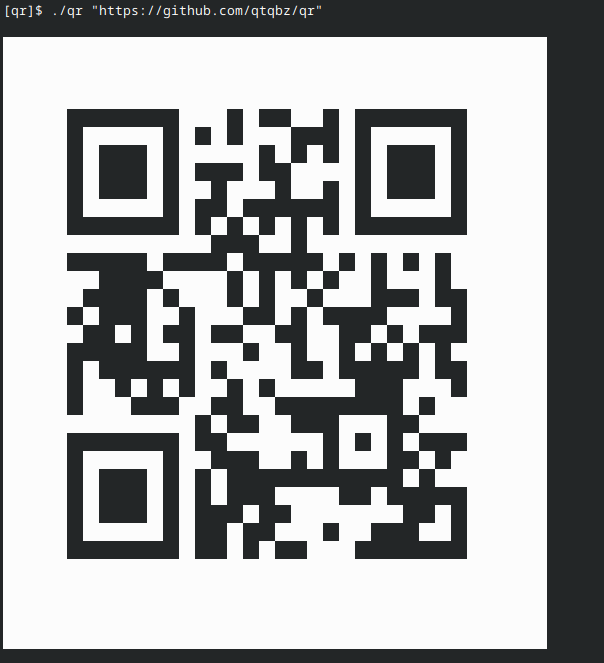
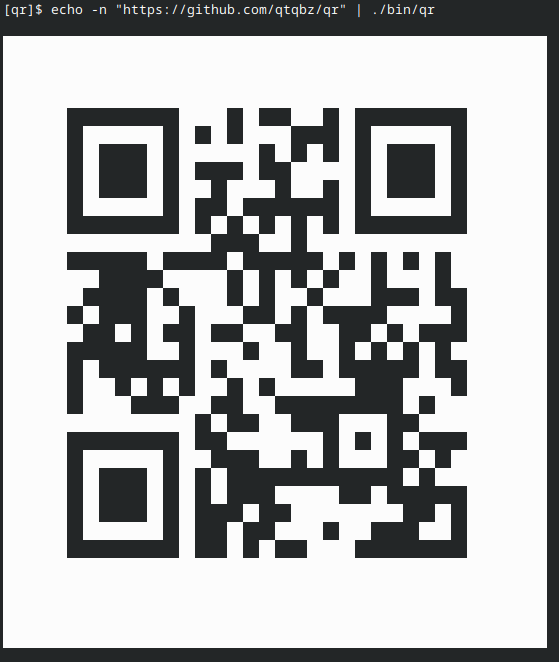
update README.

diff --git a/README.md b/README.md
@@ -1,19 +1,36 @@
-# CLI for generating QR codes
+# Terminal QR encoder
+
+This is a simple terminal utility for generating QR codes.
 
 ![image](./qr_demo.png)
 
-### Requirements:
+### Notes
+- Written in C
+- Low memory footprint
+- NO external dependencies
+- NO heap allocations
+
+### Requirements
 - GCC 14.2.1+
 - Make
 
-### Build:
+### Build
 ```
 $ make build
 ```
 
-### Usage:
+### Usage
 ```
-./qr "Your text"
+qr [OPTIONS]
+
+OPTIONS:
+    -t TEXT    Encode the given TEXT. Cannot be combined with -f.
+    -f FILE    Encode the content of FILE. Cannot be combined with -t.
+    -l LEVEL   Force error correction level from 0 (Low) to 3 (High).
+    -v VERSION Force QR version from 1 to 40.
+    -m MASK    Force mask pattern from 0 to 7.
+    -d         Print debugging messages to STDERR.
+If neither -t nor -f is specified, encodes the data read from STDIN.
 ```
 
 ### TODO:
